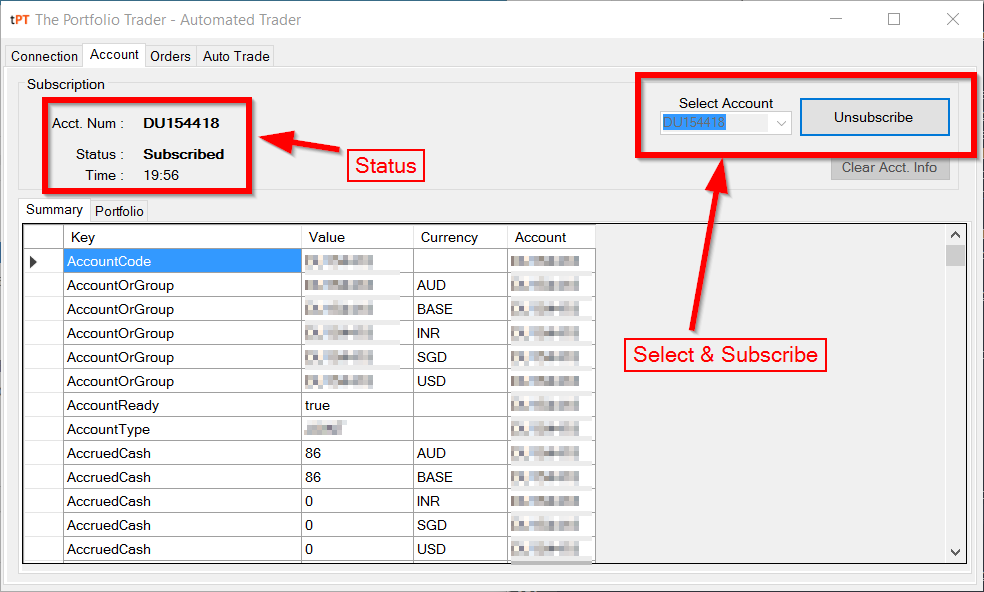
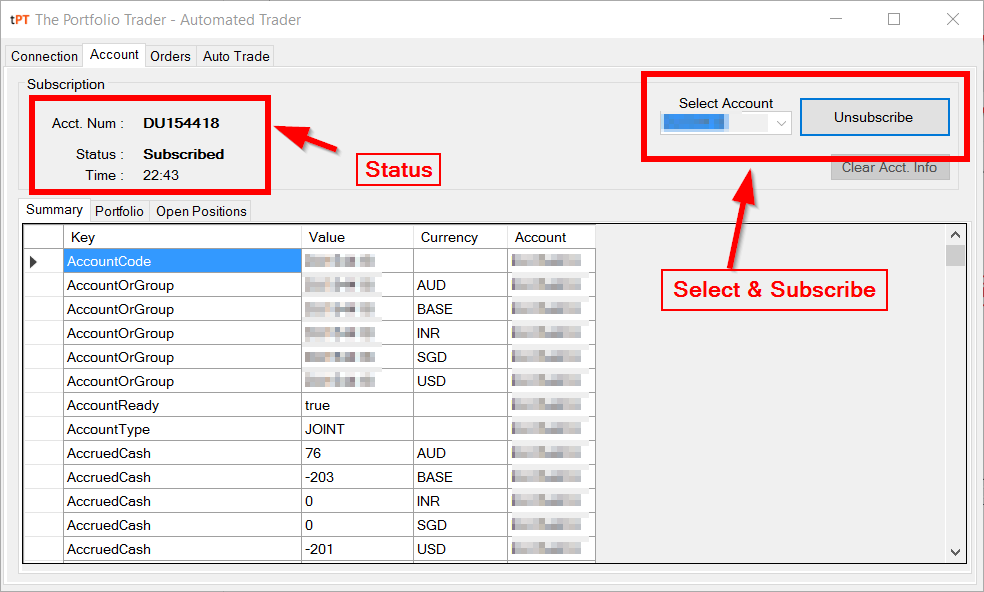
*updates

diff --git a/README.md b/README.md
@@ -313,7 +313,7 @@ This provides an user-interface to alter settings for trading using [**The Chart
 
 
 ### Close open positions
-* Go to **Account** :arrow_right: **Portfolio** tab
+* Go to **Account** :arrow_right: **Portfolio** tab or **Open Positions** tab
 * Right-click on the open position that you intend to close
 * Click **Close Position**
 
